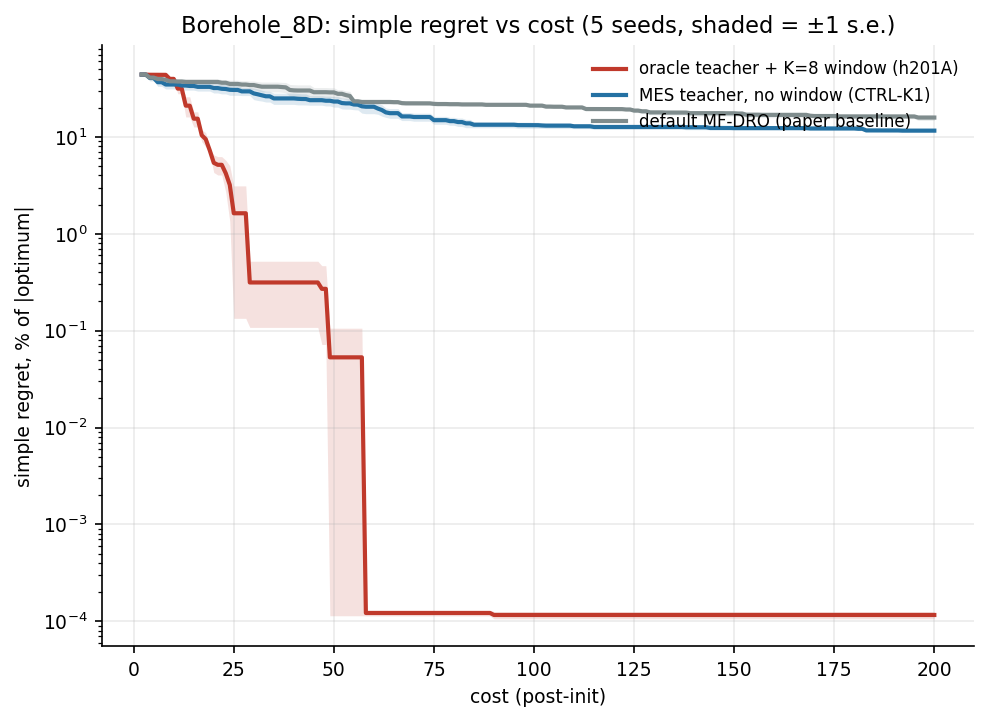
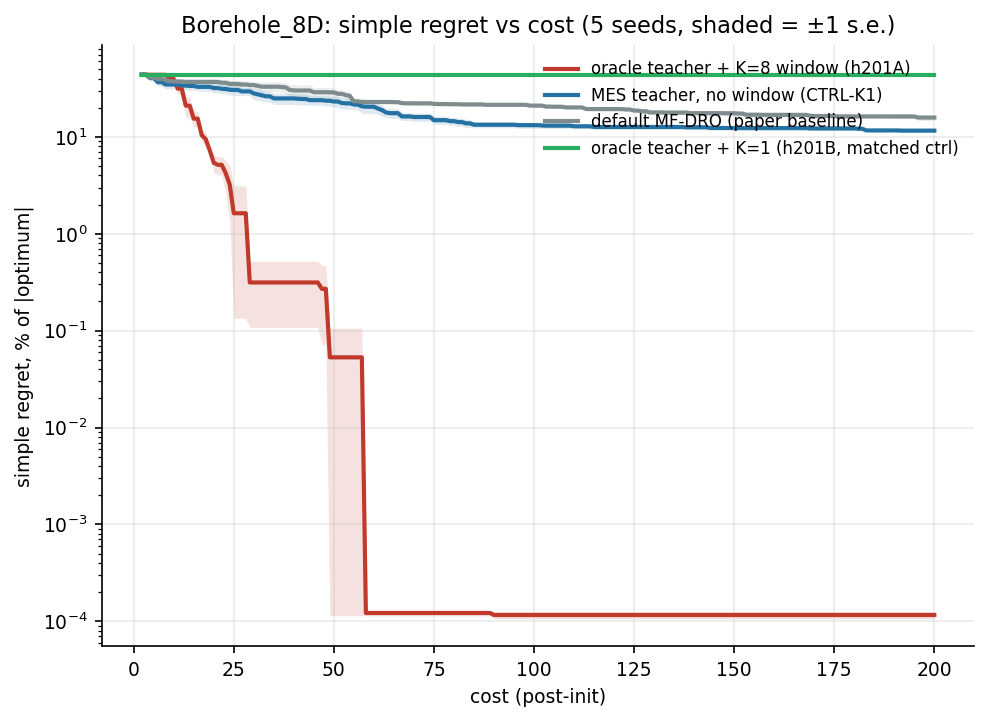
chore(h201): dedicated A-vs-B comparison plot -- same oracle teacher, K=8 vs K=1, trajectory + final-regret bar with per-seed dots. Also refreshed the 4-arm regret_vs_cost figures now that h201B's finals are on disk

Changed region(s): [[0.1518, 0.0609, 0.9717, 0.2133]]

diff --git a/experiments/h201-oracle-teacher-window/code/plot_a_vs_b.py b/experiments/h201-oracle-teacher-window/code/plot_a_vs_b.py
@@ -1,0 +1,80 @@
+"""h201: focused A (K=8 window) vs B (K=1, matched control) comparison.
+
+Same oracle teacher in both arms -- the ONLY difference is inference_context_k.
+Reuses h83's frozen sr_curve/grid (imported, never re-derived).
+"""
+import os, sys, json, glob
+import numpy as np
+import matplotlib; matplotlib.use("Agg")
+import matplotlib.pyplot as plt
+
+H = os.path.dirname(os.path.abspath(__file__))
+REPO = os.path.abspath(os.path.join(H, "..", "..", ".."))
+sys.path.insert(0, REPO)
+sys.path.insert(0, os.path.join(REPO, "experiments/h83-main-comparison/code"))
+from analyse import sr_curve, grid
+from benchmarks import get_benchmark
+
+OUT = os.path.join(H, "..", "results")
+OPT = float(get_benchmark("Borehole_8D_HF")["known_optimal_value"])
+G = np.linspace(0, 200, 201)
+SEEDS = (42, 43, 44, 45, 46)
+
+plt.rcParams.update({"font.size": 10, "axes.grid": True, "grid.alpha": 0.25,
+                     "axes.spines.top": False, "axes.spines.right": False,
+                     "figure.dpi": 150, "savefig.bbox": "tight"})
+
+PATTERNS = {
+    "h201A: oracle teacher + K=8 window": f"{REPO}/experiments/h201-oracle-teacher-window/results/Borehole_8D__H201A-ORACLE-K8__seed{{s}}.json",
+    "h201B: SAME oracle teacher, K=1 (matched control)": f"{REPO}/experiments/h201-oracle-teacher-window/results/Borehole_8D__H201B-ORACLE-K1__seed{{s}}.json",
+}
+COLORS = {"h201A: oracle teacher + K=8 window": "#C0392B",
+         "h201B: SAME oracle teacher, K=1 (matched control)": "#229954"}
+
+curves, finals = {}, {}
+for label, pat in PATTERNS.items():
+    rows, fin = [], []
+    for s in SEEDS:
+        p = pat.format(s=s)
+        run = json.load(open(p))
+        c, sr = sr_curve(run, OPT)
+        g = grid(c, sr, G)
+        rows.append(g)
+        fin.append(100.0 * g[-1] / abs(OPT))
+    curves[label] = np.vstack(rows)
+    finals[label] = np.array(fin)
+    print(f"  {label}: {len(rows)}/5 seeds, final mean {np.mean(fin):.2f}")
+
+fig, (ax1, ax2) = plt.subplots(1, 2, figsize=(12.5, 5.2), gridspec_kw={"width_ratios": [1.6, 1]})
+
+for label, A in curves.items():
+    mu = np.nanmean(A, axis=0); se = np.nanstd(A, axis=0, ddof=1) / np.sqrt(A.shape[0])
+    rel, rel_se = 100.0 * mu / abs(OPT), 100.0 * se / abs(OPT)
+    ax1.plot(G, rel, color=COLORS[label], lw=2.2, label=label)
+    ax1.fill_between(G, np.clip(rel - rel_se, 1e-6, None), rel + rel_se, color=COLORS[label], alpha=0.15, lw=0)
+ax1.set_yscale("log")
+ax1.set_xlabel("cost (post-init)")
+ax1.set_ylabel("simple regret, % of |optimum|")
+ax1.set_title("Same oracle teacher -- only the window differs")
+ax1.legend(loc="upper right", frameon=False, fontsize=8.5)
+
+labels_short = ["h201A\n(K=8 window)", "h201B\n(K=1, matched ctrl)"]
+means = [np.mean(finals[l]) for l in PATTERNS]
+bars = ax2.bar(labels_short, means, color=[COLORS[l] for l in PATTERNS], width=0.55, zorder=2)
+for i, l in enumerate(PATTERNS):
+    xs = np.full(5, i) + np.linspace(-0.12, 0.12, 5)
+    ax2.scatter(xs, finals[l], color="black", s=18, zorder=3, alpha=0.7)
+for bar, m in zip(bars, means):
+    ax2.text(bar.get_x() + bar.get_width()/2, m + 1.0, f"{m:.2f}", ha="center", fontsize=10, weight="bold")
+ax2.set_ylabel("final simple regret, % of |optimum|")
+ax2.set_title("Final regret @ cost 200\n(the only quality comparison)")
+d = finals[list(PATTERNS)[0]] - finals[list(PATTERNS)[1]]
+ax2.text(0.5, -0.22, f"paired A-B: {np.mean(d):+.2f}  (se {np.std(d, ddof=1)/np.sqrt(5):.2f}, 5/5 seeds)",
+         transform=ax2.transAxes, ha="center", fontsize=8.5, color="#555")
+
+fig.suptitle("h201 ablation: the WINDOW alone does nothing without a teacher worth reading at the readout position",
+            y=1.03, fontsize=12)
+fig.tight_layout()
+fig.savefig(os.path.join(OUT, "h201_a_vs_b.png"))
+plt.close(fig)
+print(f"\n  wrote {os.path.join(OUT, 'h201_a_vs_b.png')}")
